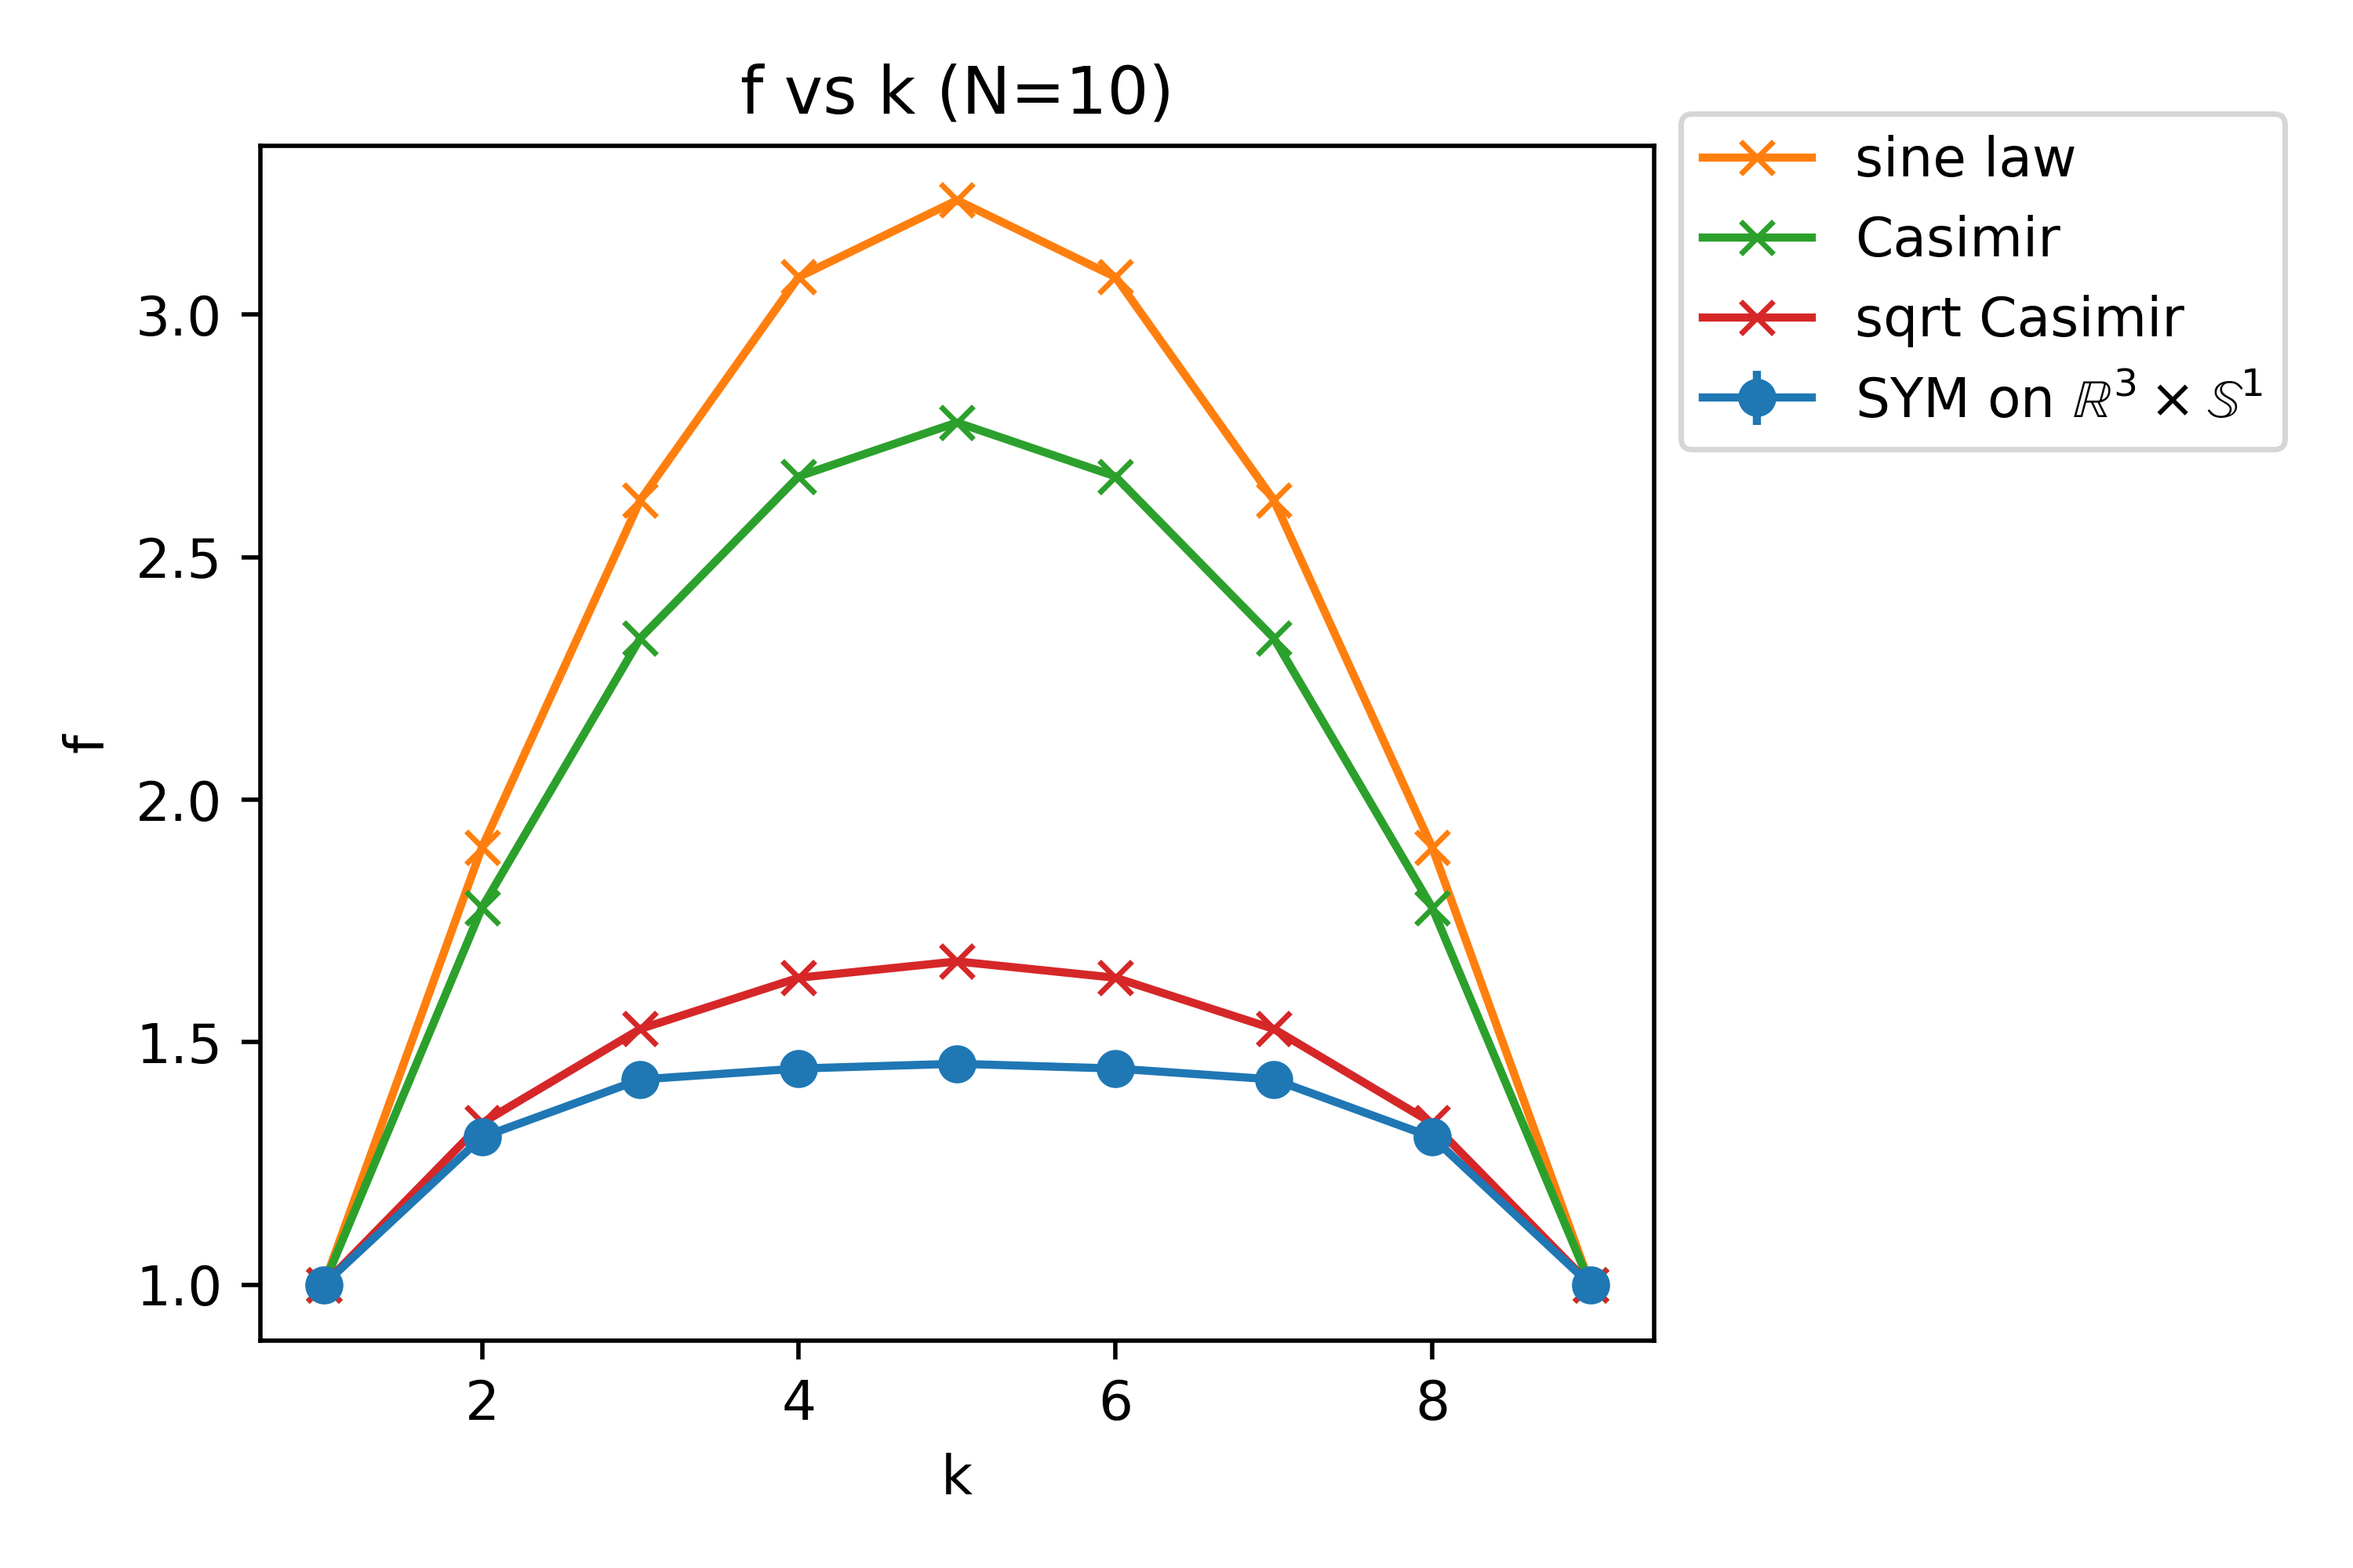
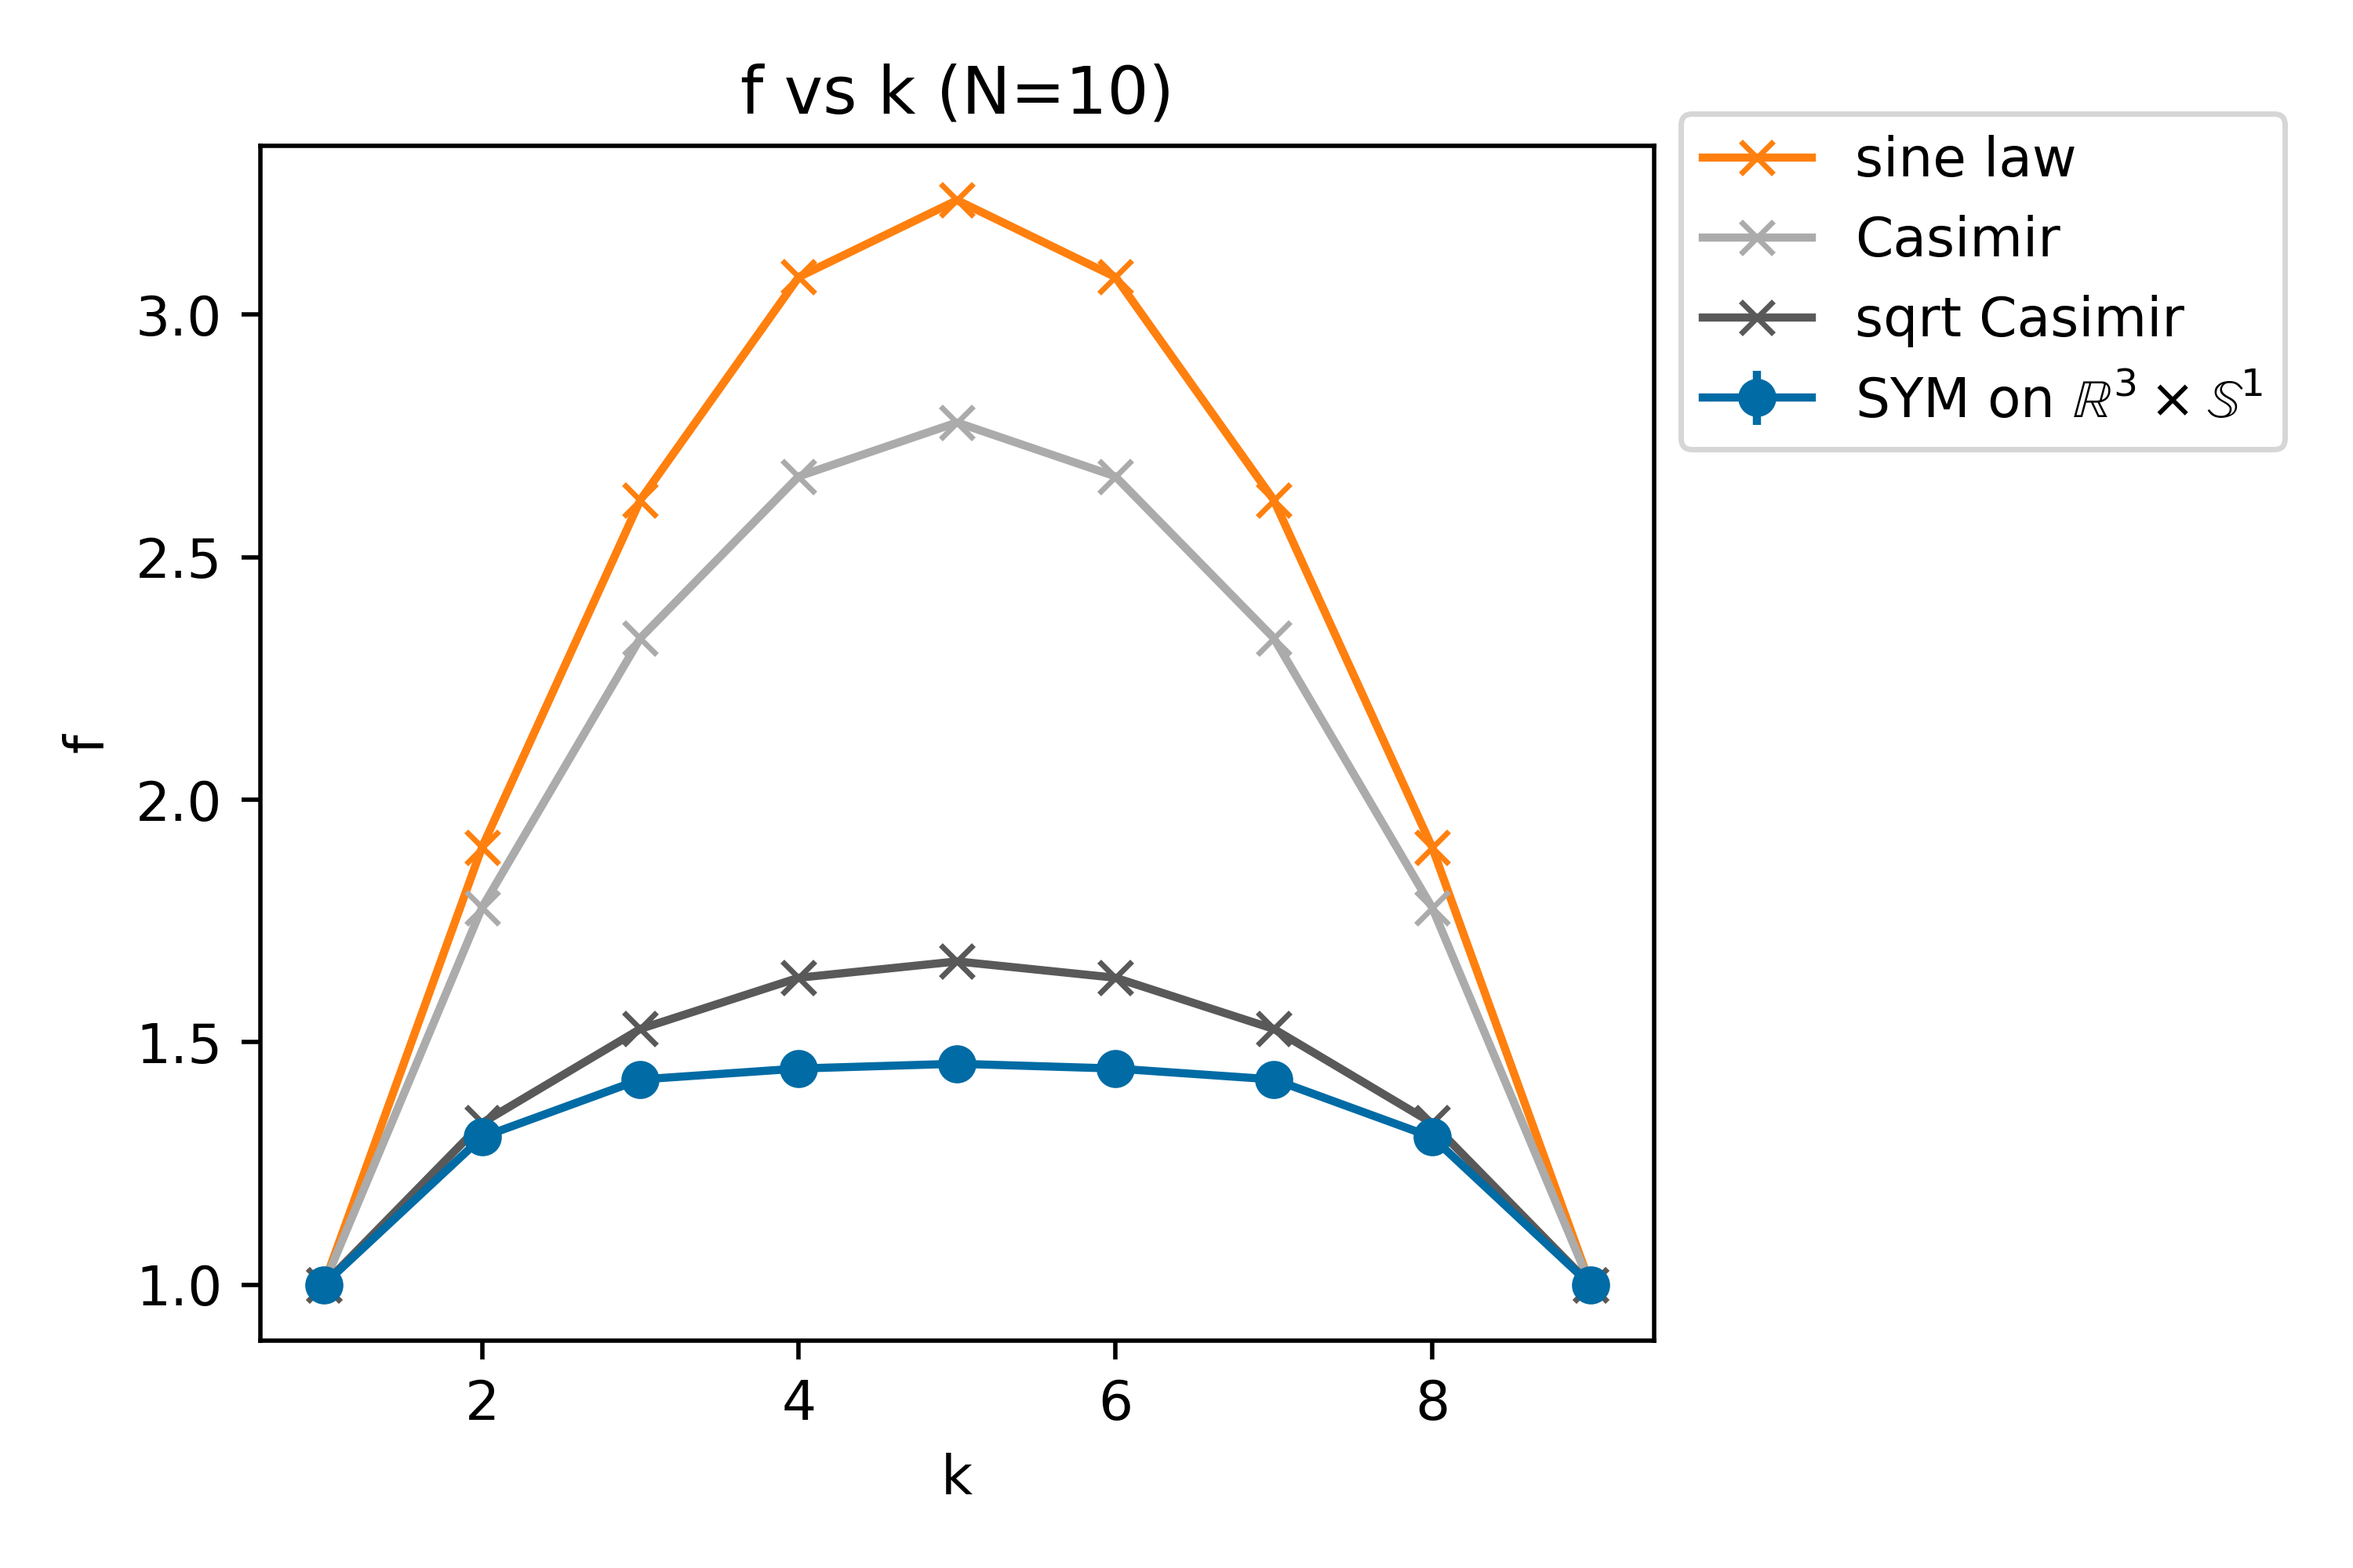
fixed a few bugs for BPS with epsilon

diff --git a/confinepy package/confinepy/source.py b/confinepy package/confinepy/source.py
@@ -22,6 +22,7 @@ from sympy import init_printing
 from sympy.matrices import Matrix
 import warnings
 warnings.filterwarnings('ignore') #ignore numba warnings
+plt.style.use('tableau-colorblind10')
 
 """
 ===============================================================================
@@ -1644,7 +1645,7 @@ def solve_BPS(N,vac0_arg,vacf_arg,num,h=0.1,epsilon=0,tol=1e-9,sor=1.5,
     #whether to continue relaxation loop
     if continue_kw == "BPS_Energy":
         continue_condition = generate_BPS_energy_continue_condition(
-                N,num,vac0,vacf,z_linspace,h)
+                N,num,vac0,vacf,z_linspace,h,epsilon)
     elif continue_kw == "default":
         continue_condition = default_continue_condition
     #call everything in relaxation algorithm
@@ -1784,7 +1785,7 @@ def set_x0(vac0_vec,vacf_vec,num,m,z0,zf,kink_bd_distance,R=0,top=True,
         x0 = x0_given
     return x0
 
-def generate_BPS_energy_continue_condition(N,num,vac0,vacf,z,h):
+def generate_BPS_energy_continue_condition(N,num,vac0,vacf,z,h,epsilon):
     def BPS_energy_continue_condition(error,tol,x):
         greater_than_tol = default_continue_condition(error,tol)
         loop = len(error)
@@ -1793,7 +1794,7 @@ def generate_BPS_energy_continue_condition(N,num,vac0,vacf,z,h):
             #after 10,000 loops, check energy condition once every 1000 loops
             #this ensures we don't stop prematurely and don't waste time
             #computing energy too foten
-            theoretic_energy, numeric_energy = BPS_Energy(N,num,vac0,vacf,x,z,h)
+            theoretic_energy, numeric_energy = BPS_Energy(N,num,vac0,vacf,x,z,h,epsilon)
             energy_too_far = (np.abs(theoretic_energy - numeric_energy) > 0.005)
             #only continue loop if error is too large and energy too far from
             #theoretical energy

diff --git a/confinepy package/confinepy/Tensions/extract_tensions.py b/confinepy package/confinepy/Tensions/extract_tensions.py
@@ -292,6 +292,7 @@ def plot_f_vs_p(N):
         plt.show()
     
 if __name__ == "__main__":
+    plt.style.use('tableau-colorblind10')
     #create dictionaries as global variables (used by functions)
     tension_dict = get_tension_dict()
     f_dict, df_dict = get_f_df_dict()
@@ -308,7 +309,7 @@ if __name__ == "__main__":
     N5_list, T5_list, dT5_list, f5_list, df5_list = get_T_dT_f_df_by_p(5)
 
     # plot_tensions()
-    plot_f()
+    #plot_f()
     # plot_f_compare_sine()
     # plot_f_compare_sine_side_by_side()
     #plot_f_compare_casimir()
@@ -327,5 +328,5 @@ if __name__ == "__main__":
     p10_ls, T10_ls, dT10_ls, f10_ls, df10_ls = get_T_dT_f_df_by_N(10)
     
     plot_f_vs_p(N=10)
-    plot_f_vs_p(N=4)
+    #plot_f_vs_p(N=4)
 
